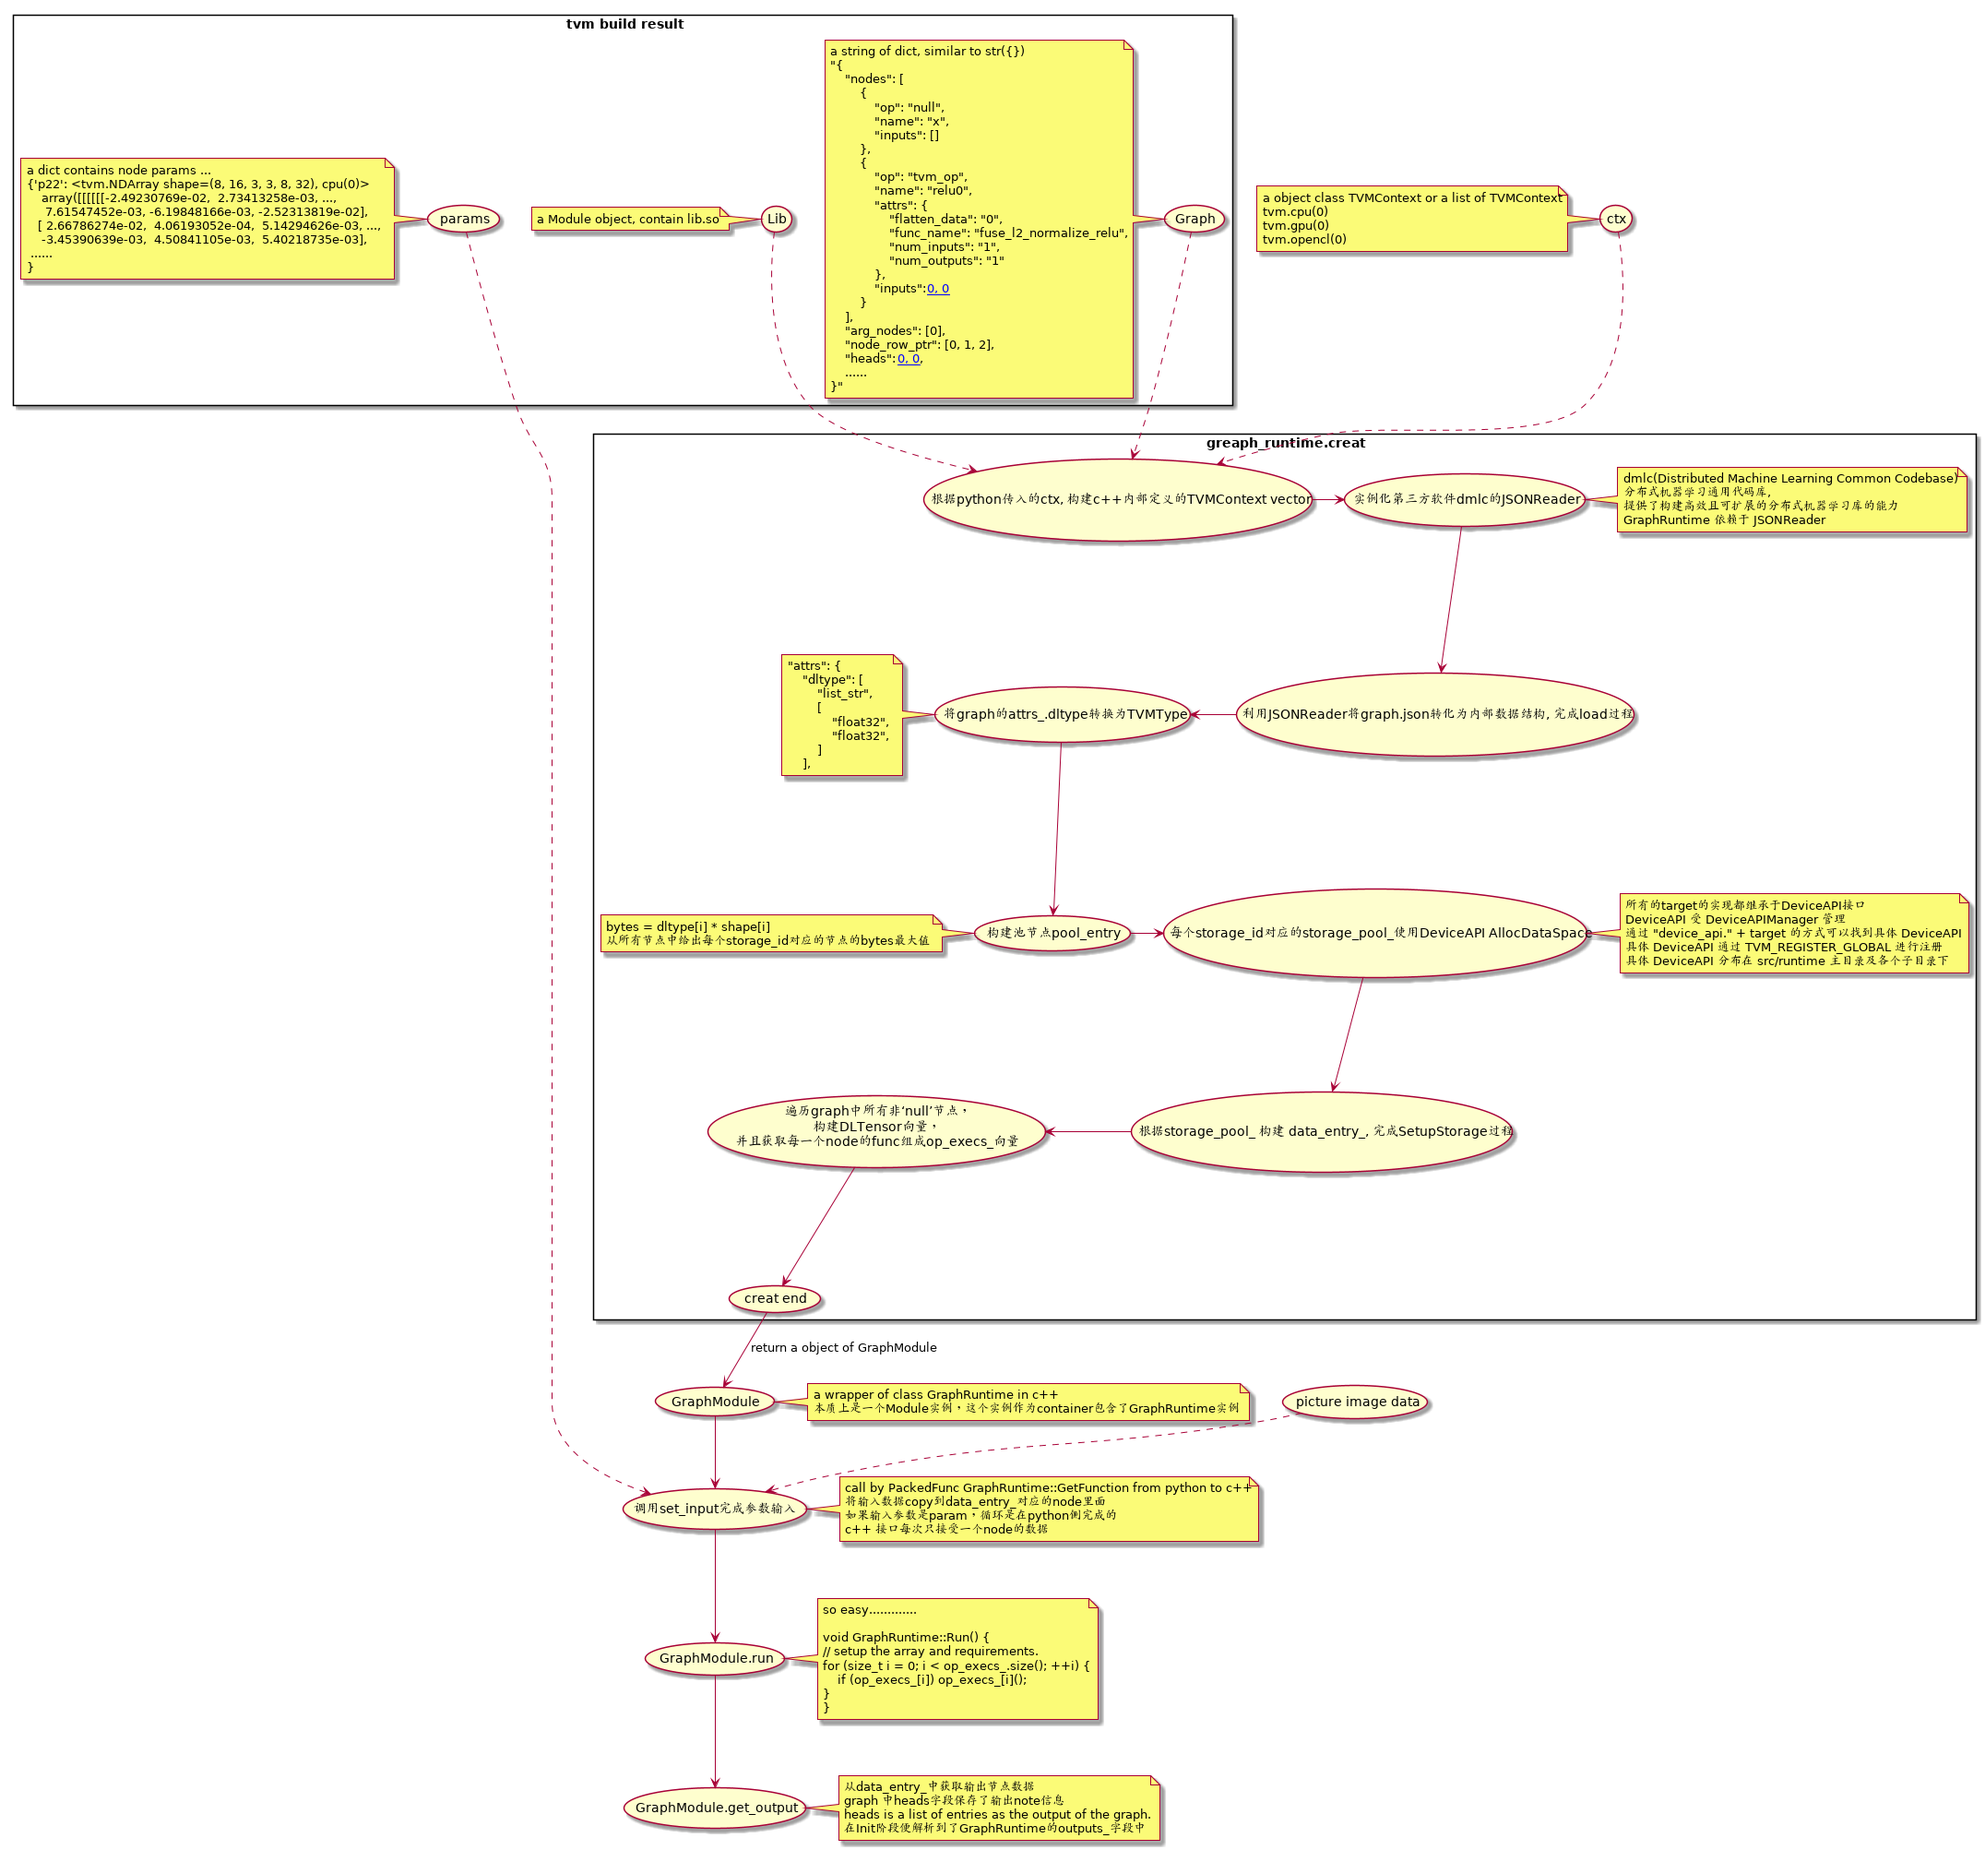
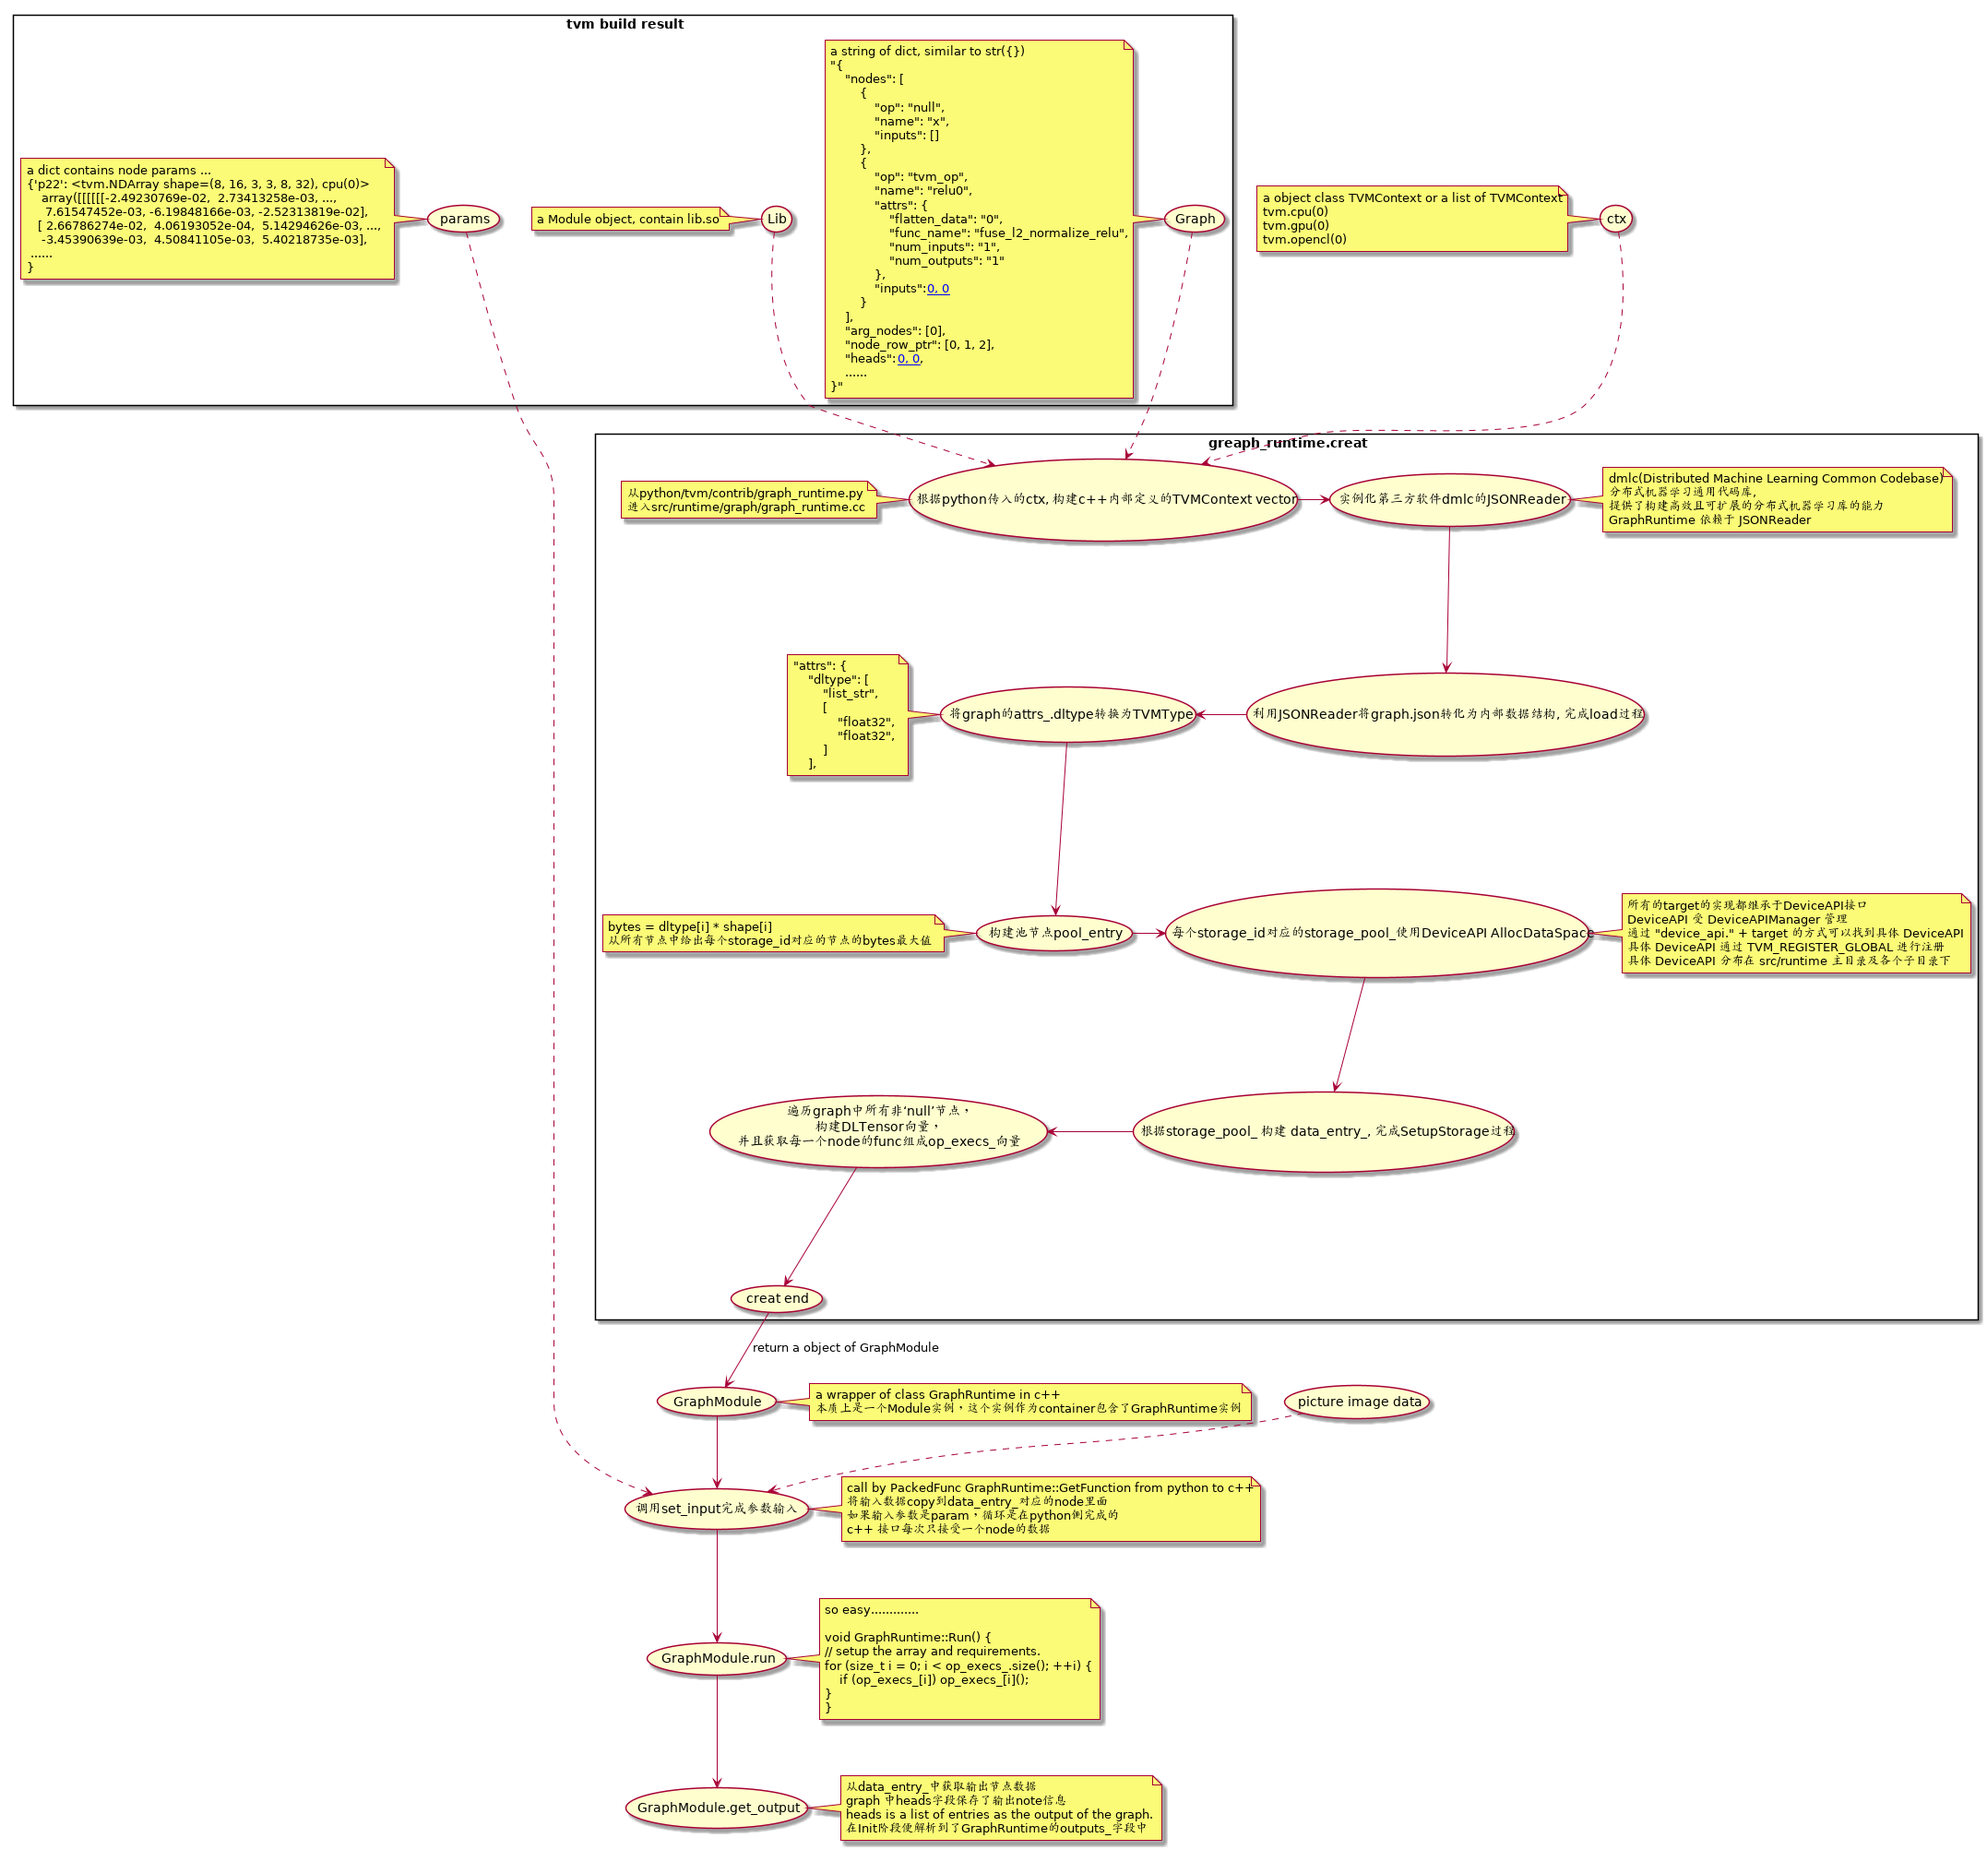
about runtime

diff --git a/tvm/runtime.md b/tvm/runtime.md
@@ -1,5 +1,115 @@
 # runtime
 
+runtime中的代码主要干了三件事情
+
+- 初始化过程，解析graph，转换为内部数据结构，调用DeviceAPI，在device上分配内存空间
+- 参数设置过程，将参数copy到分配好的device内存空间上
+- 运行过程，遍历执行解析完的graph中的function
+
 ## runtime-flow
 
 ![runtime flow](../out/tvm/runtime/runtime.png)
+
+## code-flow
+
+python/tvm/contrib/graph_runtime.py 中实现了runtime creat的python接口
+
+```python
+def create(graph_json_str, libmod, ctx):
+    fcreate = get_global_func("tvm.graph_runtime.create")
+    return GraphModule(fcreate(graph_json_str, libmod, *device_type_id))
+```
+
+python/tvm/contrib/debugger/debug_runtime.py 中实现了涵盖debug功能的runtime creat python接口
+
+```python
+def create(graph_json_str, libmod, ctx, dump_root=None):
+    fcreate = get_global_func("tvm.graph_runtime_debug.create")
+    func_obj = fcreate(graph_json_str, libmod, *device_type_id)
+    return GraphModuleDebug(func_obj, ctx, graph_json_str, dump_root)
+```
+
+fcreate 返回包含c++代码中creat方法的handle的Function, 调用fcreate则陷入到c++中执行， c++的代码主要集中在**src/runtime/graph/graph_runtime.cc中**
+
+## deviceAPI
+
+deviceAPI是一个接口，每种target都对应实现了该接口，deviceAPI 更多的是针对内存管理，部分API封装在**c_runtime_api.cc**中供上层调用，在python端可以通过_LIB.xxxx的方式进行调用
+
+- CPUDeviceAPI
+- CUDADeviceAPI
+- OpenCLWorkspace
+- OpenGLWorkspace
+- ROCMDeviceAPI
+- RPCDeviceAPI
+- VTADeviceAPI
+
+```c++
+class TVM_DLL DeviceAPI {
+ public:
+  virtual ~DeviceAPI() {}
+  virtual void SetDevice(TVMContext ctx) = 0;
+  virtual void GetAttr(TVMContext ctx, DeviceAttrKind kind, TVMRetValue* rv) = 0;
+  virtual void* AllocDataSpace(TVMContext ctx,
+                               size_t nbytes,
+                               size_t alignment,
+                               TVMType type_hint) = 0;
+  virtual void FreeDataSpace(TVMContext ctx, void* ptr) = 0;
+  virtual void CopyDataFromTo(const void* from,
+                              size_t from_offset,
+                              void* to,
+                              size_t to_offset,
+                              size_t num_bytes,
+                              TVMContext ctx_from,
+                              TVMContext ctx_to,
+                              TVMType type_hint,
+                              TVMStreamHandle stream) = 0;
+  virtual TVMStreamHandle CreateStream(TVMContext ctx);
+  virtual void FreeStream(TVMContext ctx, TVMStreamHandle stream);
+  virtual void StreamSync(TVMContext ctx, TVMStreamHandle stream) = 0;
+  virtual void SetStream(TVMContext ctx, TVMStreamHandle stream) {}
+  virtual void SyncStreamFromTo(TVMContext ctx,
+                                        TVMStreamHandle event_src,
+                                        TVMStreamHandle event_dst);
+  virtual void* AllocWorkspace(TVMContext ctx,
+                                       size_t nbytes,
+                                       TVMType type_hint = {});
+  virtual void FreeWorkspace(TVMContext ctx, void* ptr);
+  static DeviceAPI* Get(TVMContext ctx, bool allow_missing = false);
+};
+```
+
+### SetDevice
+
+主要是处理device id， 对于cuda来讲，应该就是第几个板卡；对于cpu，这个接口并没有意义。
+
+这个接口在整个runtime过程中没有地方进行主动调用，在cuda的实现中，对于deviceAPI的每个接口，里面都会调用自己的cudaSetDevice接口。
+
+### GetAttr
+
+根据传入的不同的DeviceAttrKind，返回不同的设备属性，cuda每一个库函数都要求传入device_id，这个接口在设计时感觉像基于cuda库进行的封装，命名上跟cuda很像。
+
+在python class TVMContext(python/tvm/_ffi/runtime_ctypes.py)中封装了GetAttr的上层调用,在图编译和执行的流程中不会被调用
+
+### AllocDataSpace
+
+在device上申请内存空间
+
+在runtime Init的时候，会调用该接口，在devie上为tensor分配空间
+
+### FreeDataSpace
+
+在c++ 类class NDArray 的析构函数里面会进行调用， NDArray里面包含了DLTensor
+
+### CopyDataFromTo
+
+实现了数据copy，支持host之间，device之间和host-device直接的数据copy
+
+### CreateStream
+
+只有cuda支持，实际上也没有找到在什么地方有调用
+
+### AllocWorkspace
+
+分配工作空间，内部实际上还是调用AllocDataSpace
+
+什么情况下使用？

diff --git a/tvm/tvm-start.md b/tvm/tvm-start.md
@@ -112,7 +112,7 @@ relay-build-flow![relay-build-flow](../out/tvm/relay-build-flow/relay-build-flow
 
 ### build过程
 
-创建module实例
+#### 创建module实例
 
 ```python
 # tvm/tutorials/frontend/from_mxnet.py
@@ -122,6 +122,9 @@ def from_mxnet(symbol,
                arg_params=None,
                aux_params=None):
     mod = _module.Module()
+    func = _from_mxnet_impl(symbol, shape, dtype, mod)
+    mod["main"] = func
+    return mod, params
 ```
 
 Module是一个python类，通过register_relay_node注册到了一个python全局的node字典中。
@@ -185,6 +188,52 @@ def __init_handle_by_constructor__(fconstructor, args):
     if _LIB.TVMFuncCall(
             fconstructor.handle, values, tcodes, ctypes.c_int(num_args),
             ctypes.byref(ret_val), ctypes.byref(ret_tcode)) != 0:
+```
+
+#### 转换原始graph
+
+创建完成modudle实例之后，_from_mxnet_impl 遍历了原始graph的node, 根据op名称的不同，填充不同的expr实例到node_map
+并且把最终输出节点对应的Function实例返回，module实例的'main'节点安装为该func
+
+```python
+# python/tvm/relay/frontend/mxnet.py
+def _from_mxnet_impl(symbol, shape_dict, dtype_info, mod=None):
+    jgraph = json.loads(symbol.tojson())
+    jnodes = jgraph["nodes"]
+    node_map = {}
+
+    for nid, node in enumerate(jnodes):
+        if op_name == "null":
+            node_map[nid] = [_expr.var(node_name, shape=shape, dtype=dtype)]
+        elif op_name in _convert_map:
+            res = _convert_map[op_name](children, attrs)
+    outputs = [node_map[e[0]][e[1]] for e in jgraph["heads"]]
+    func = _expr.Function(analysis.free_vars(outputs), outputs)
+    return func
+```
+
+其中_convert_map是relay 的 mxnet前端准备好的一个字典，记录着每个op对应的relay的表达。null node代表占位/变量或者输入节点，被实例化为Var(A local variable in Relay)
+
+```python
+# python/tvm/relay/expr.py
+@register_relay_node
+class Var(Expr):
+    def __init__(self, name_hint, type_annotation=None):
+        self.__init_handle_by_constructor__(
+            _make.Var, name_hint, type_annotation)
+
+class Expr(RelayNode):
+    def __call__(self, *args):
+        return Call(self, args)
+
+@register_relay_node
+class Call(Expr):
+    def __init__(self, op, args, attrs=None, type_args=None):
+        if not type_args:
+            type_args = []
+        self.__init_handle_by_constructor__(
+            _make.Call, op, args, attrs, type_args)
+
 ```
 
 
